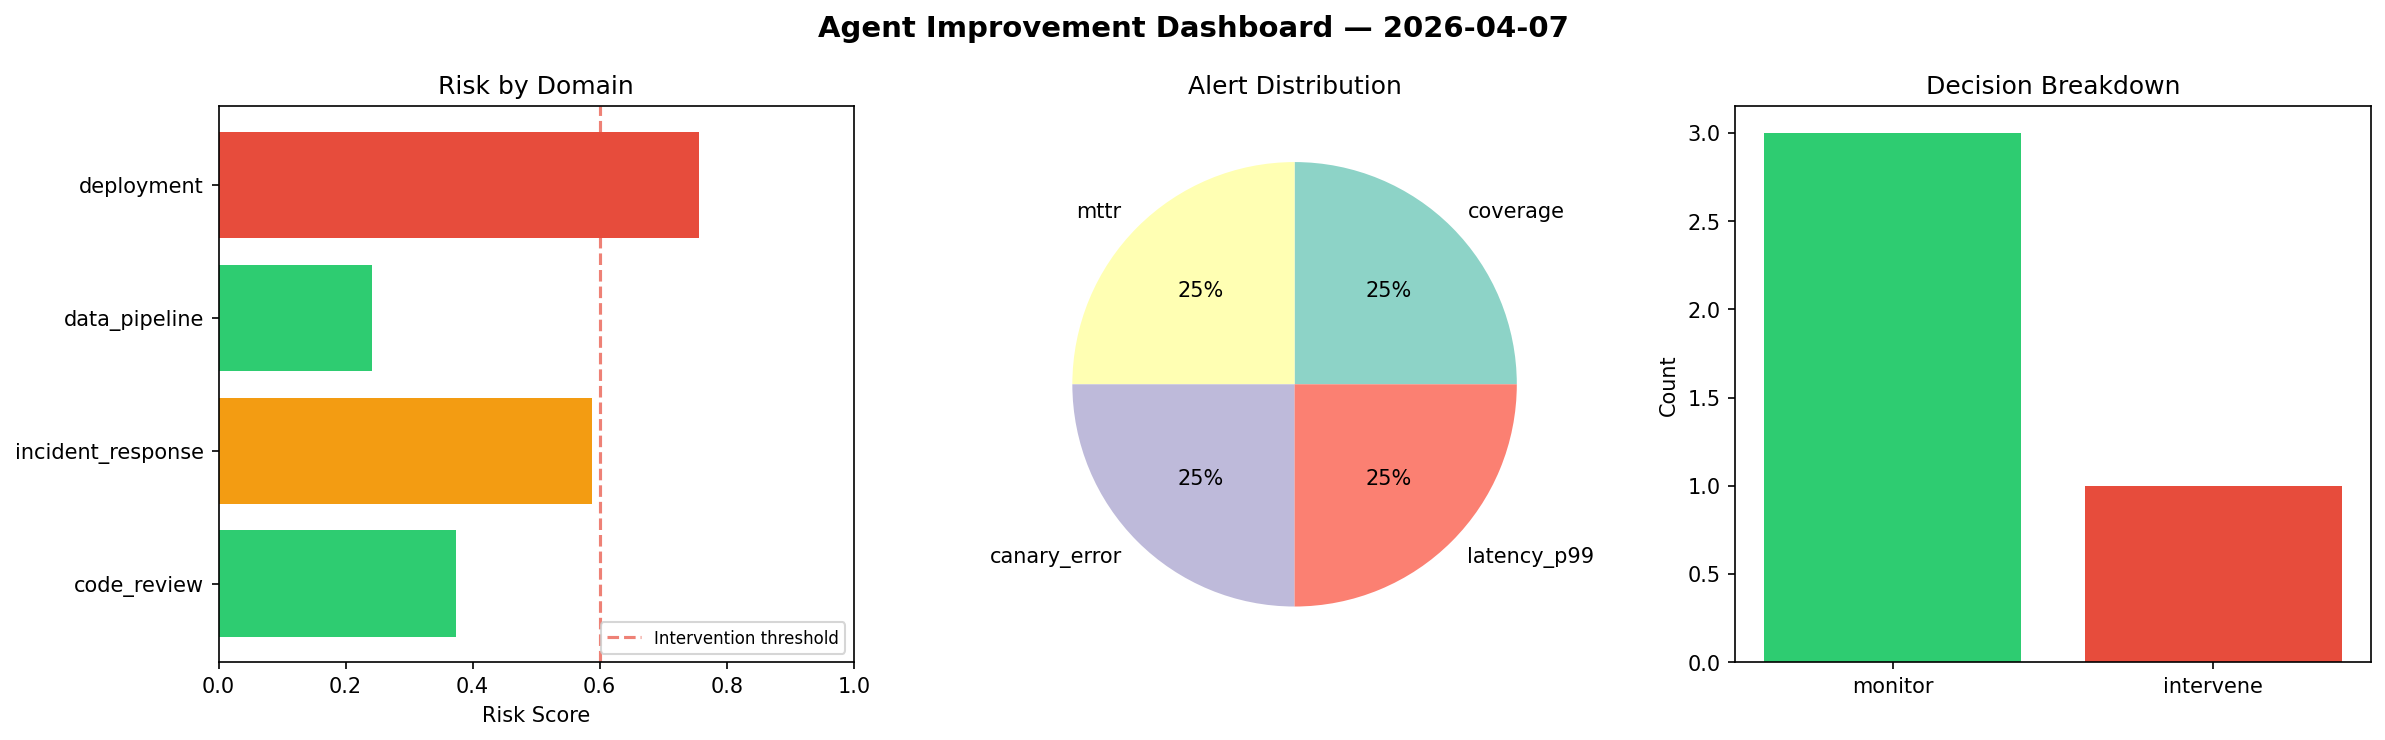
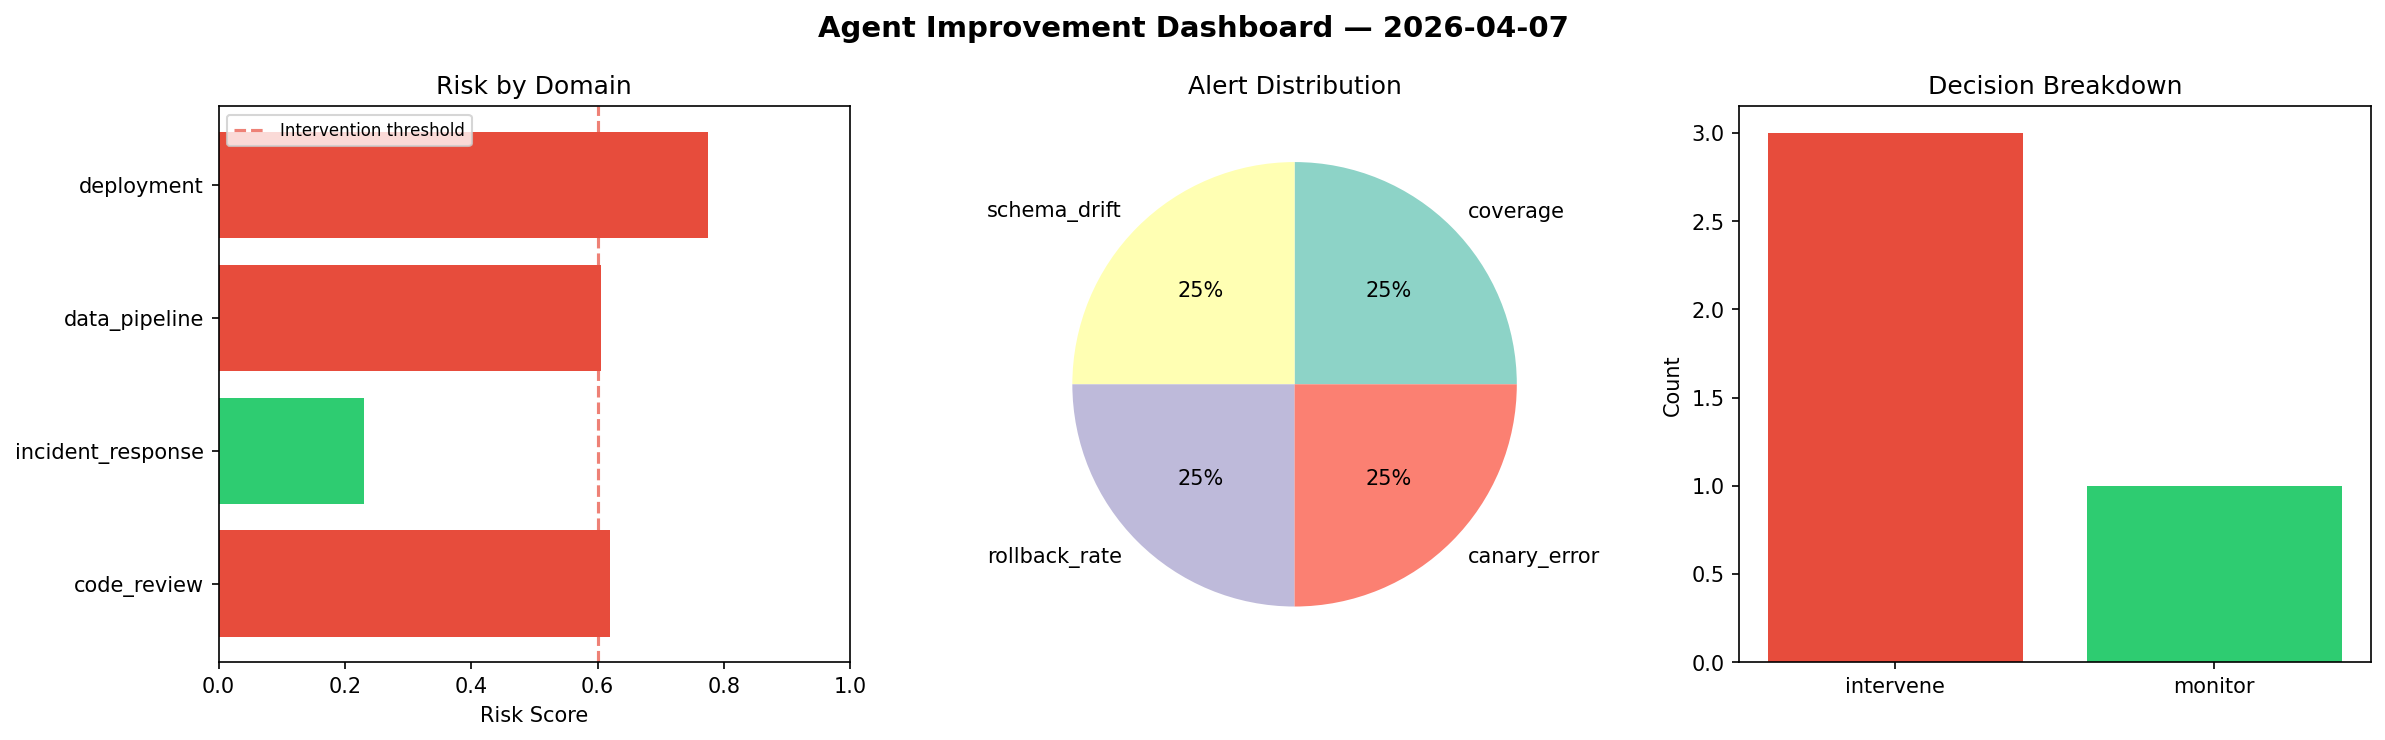
agent-improvement: daily cycle 2026-04-07T09:20

diff --git a/logs/2026-04-07.md b/logs/2026-04-07.md
@@ -1,6 +1,6 @@
 # Agent Improvement Report — 2026-04-07
 
-**Cycle ID:** `585643f7` | **Avg Risk:** 0.4897 | **Interventions:** 1/4
+**Cycle ID:** `5a6c9b83` | **Avg Risk:** 0.5578 | **Interventions:** 3/4
 
 ![Dashboard](2026-04-07_dashboard.png)
 
@@ -10,18 +10,18 @@
 
 | Domain | Risk Score | Decision | Alerts |
 |--------|-----------|----------|--------|
-| code_review | 0.3734 | monitor | coverage |
-| incident_response | 0.5875 | monitor | mttr |
-| data_pipeline | 0.2418 | monitor | none |
-| deployment | 0.7559 | intervene | canary_error, latency_p99 |
+| code_review | 0.6204 | intervene | coverage |
+| incident_response | 0.2297 | monitor | none |
+| data_pipeline | 0.6062 | intervene | schema_drift |
+| deployment | 0.7748 | intervene | rollback_rate, canary_error |
 
 ## Delta vs Yesterday
 
 | Domain | Today | Yesterday | Change |
 |--------|-------|-----------|--------|
-| code_review | 0.3734 | 0.7764 | 📉 -51.9% |
-| incident_response | 0.5875 | 0.1984 | 📈 196.1% |
-| data_pipeline | 0.2418 | 0.2445 | 📉 -1.1% |
-| deployment | 0.7559 | 0.3633 | 📈 108.1% |
+| code_review | 0.6204 | 0.7764 | 📉 -20.1% |
+| incident_response | 0.2297 | 0.1984 | 📈 15.8% |
+| data_pipeline | 0.6062 | 0.2445 | 📈 147.9% |
+| deployment | 0.7748 | 0.3633 | 📈 113.3% |
 
 **Refinement:** `{'adjustment': 'tighten_thresholds', 'trend': 'degrading', 'window': 4}`
